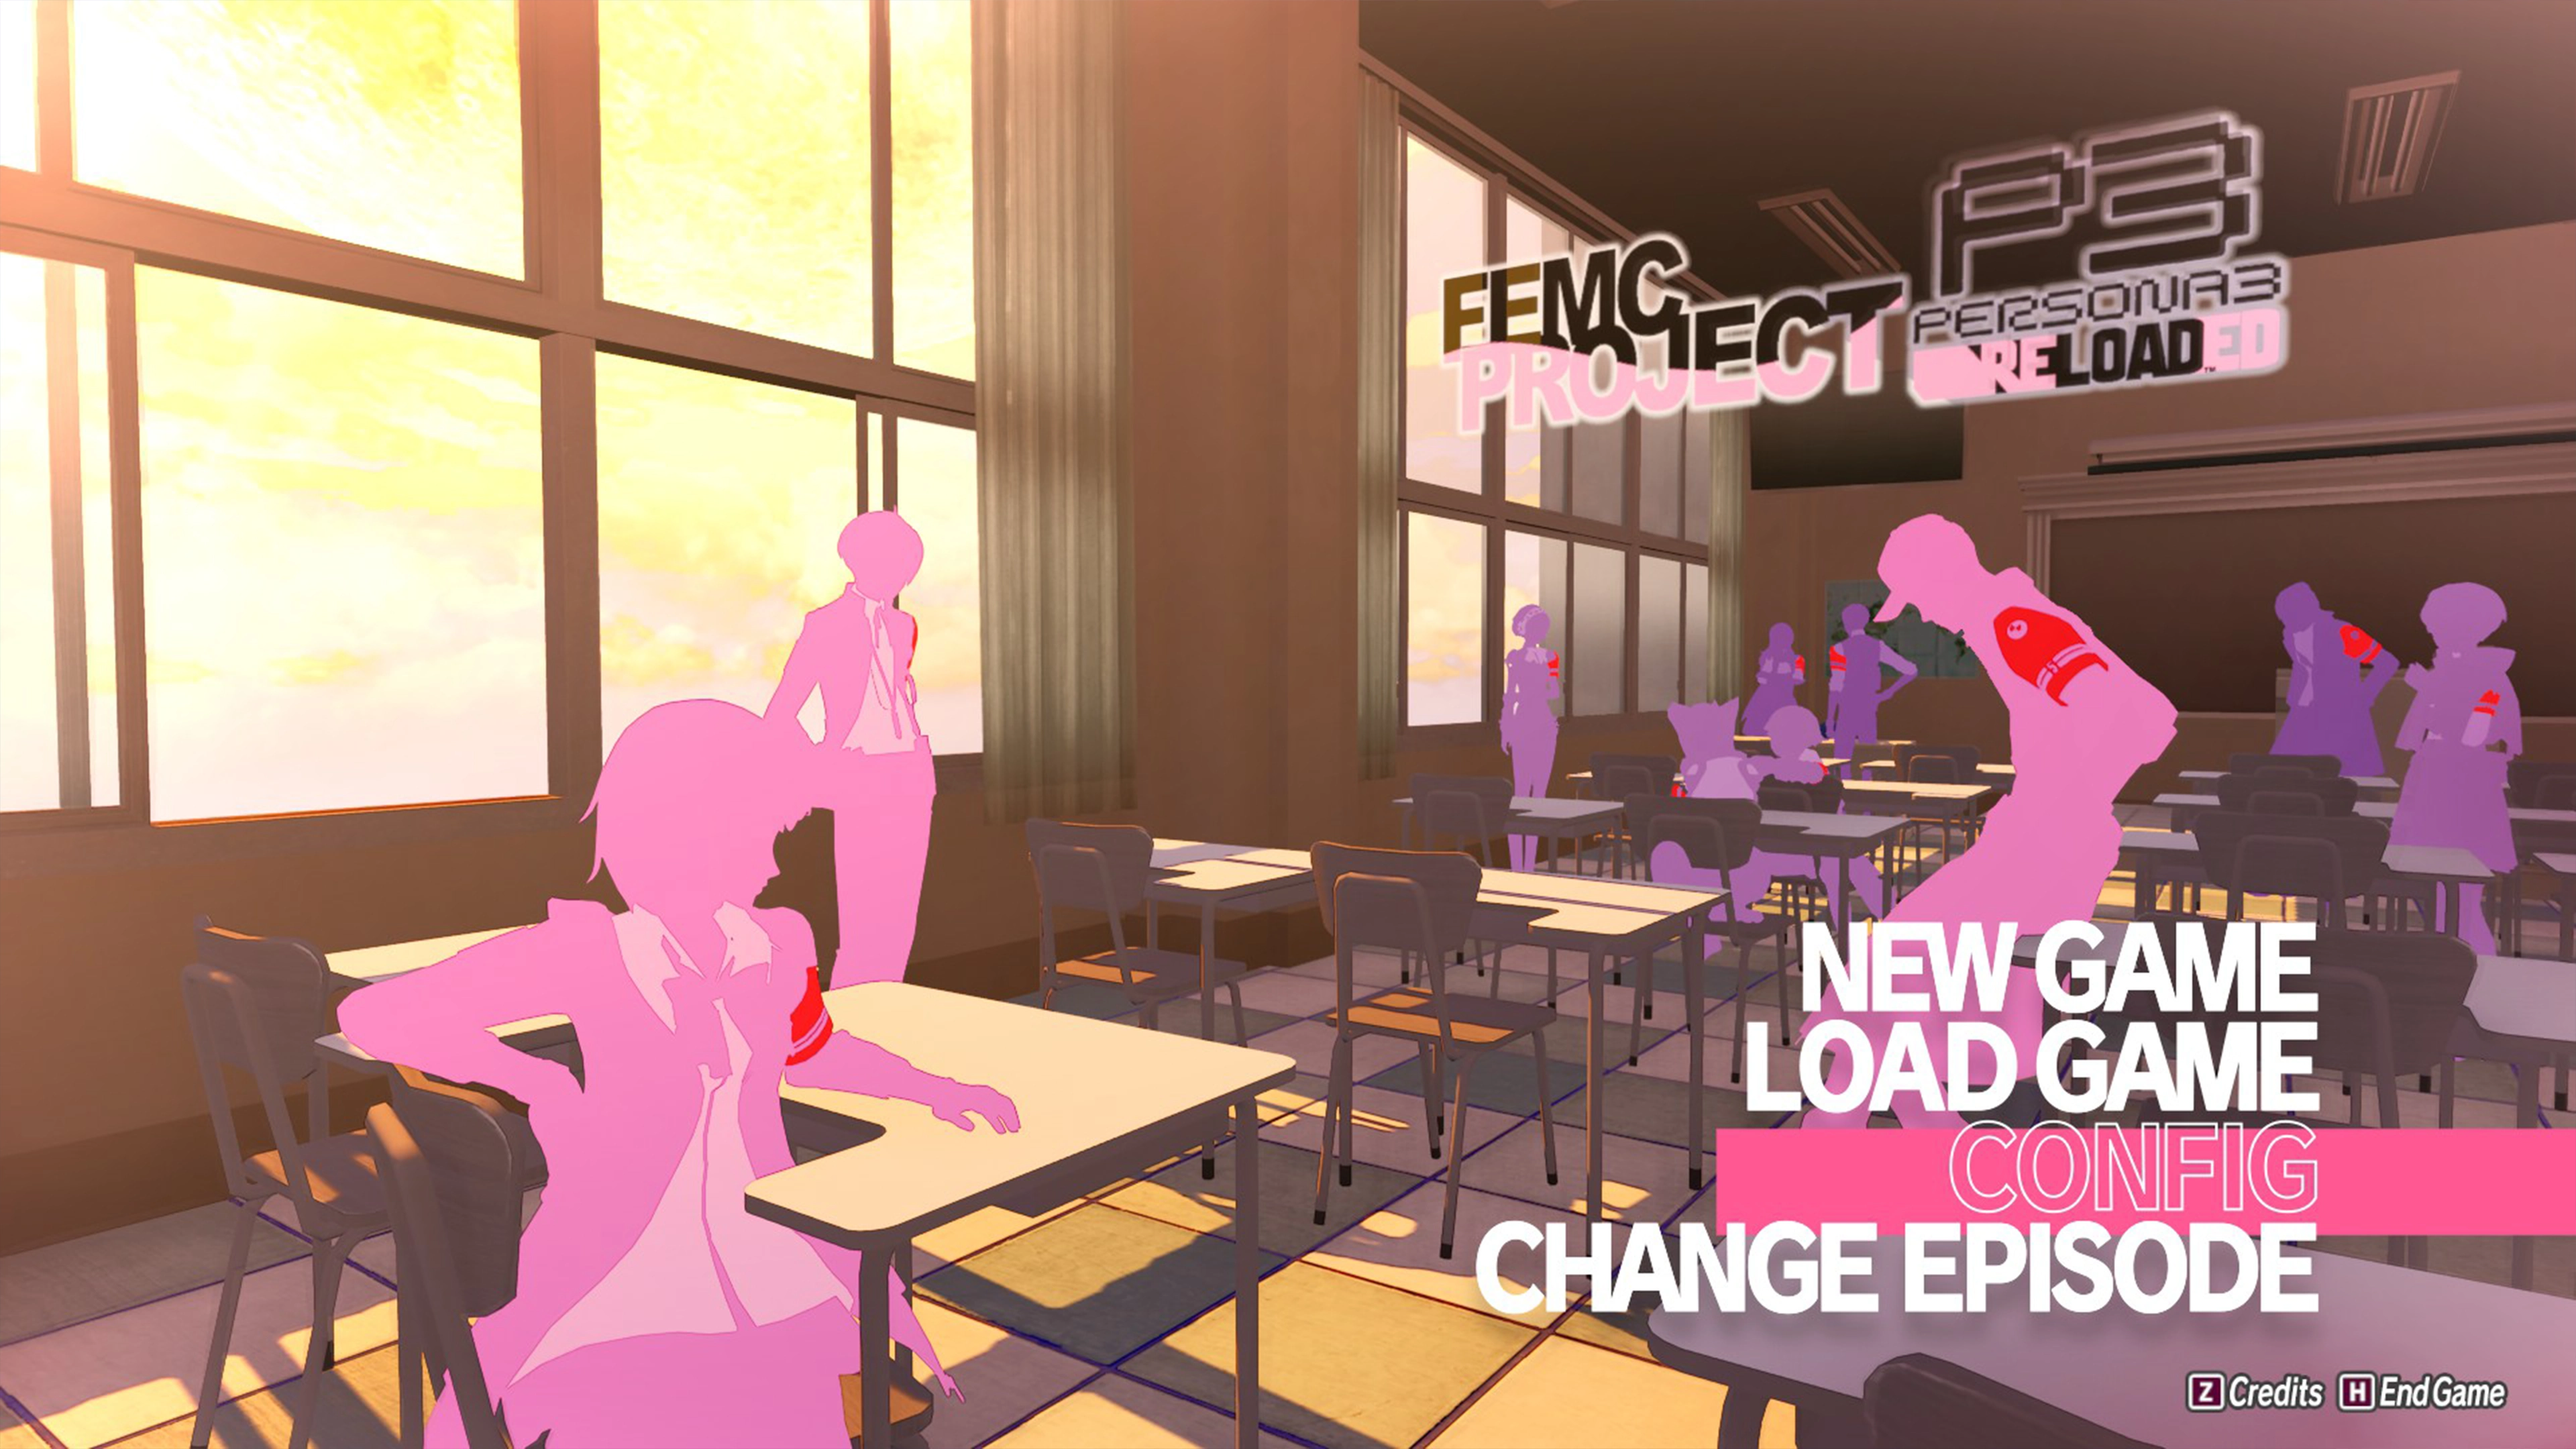
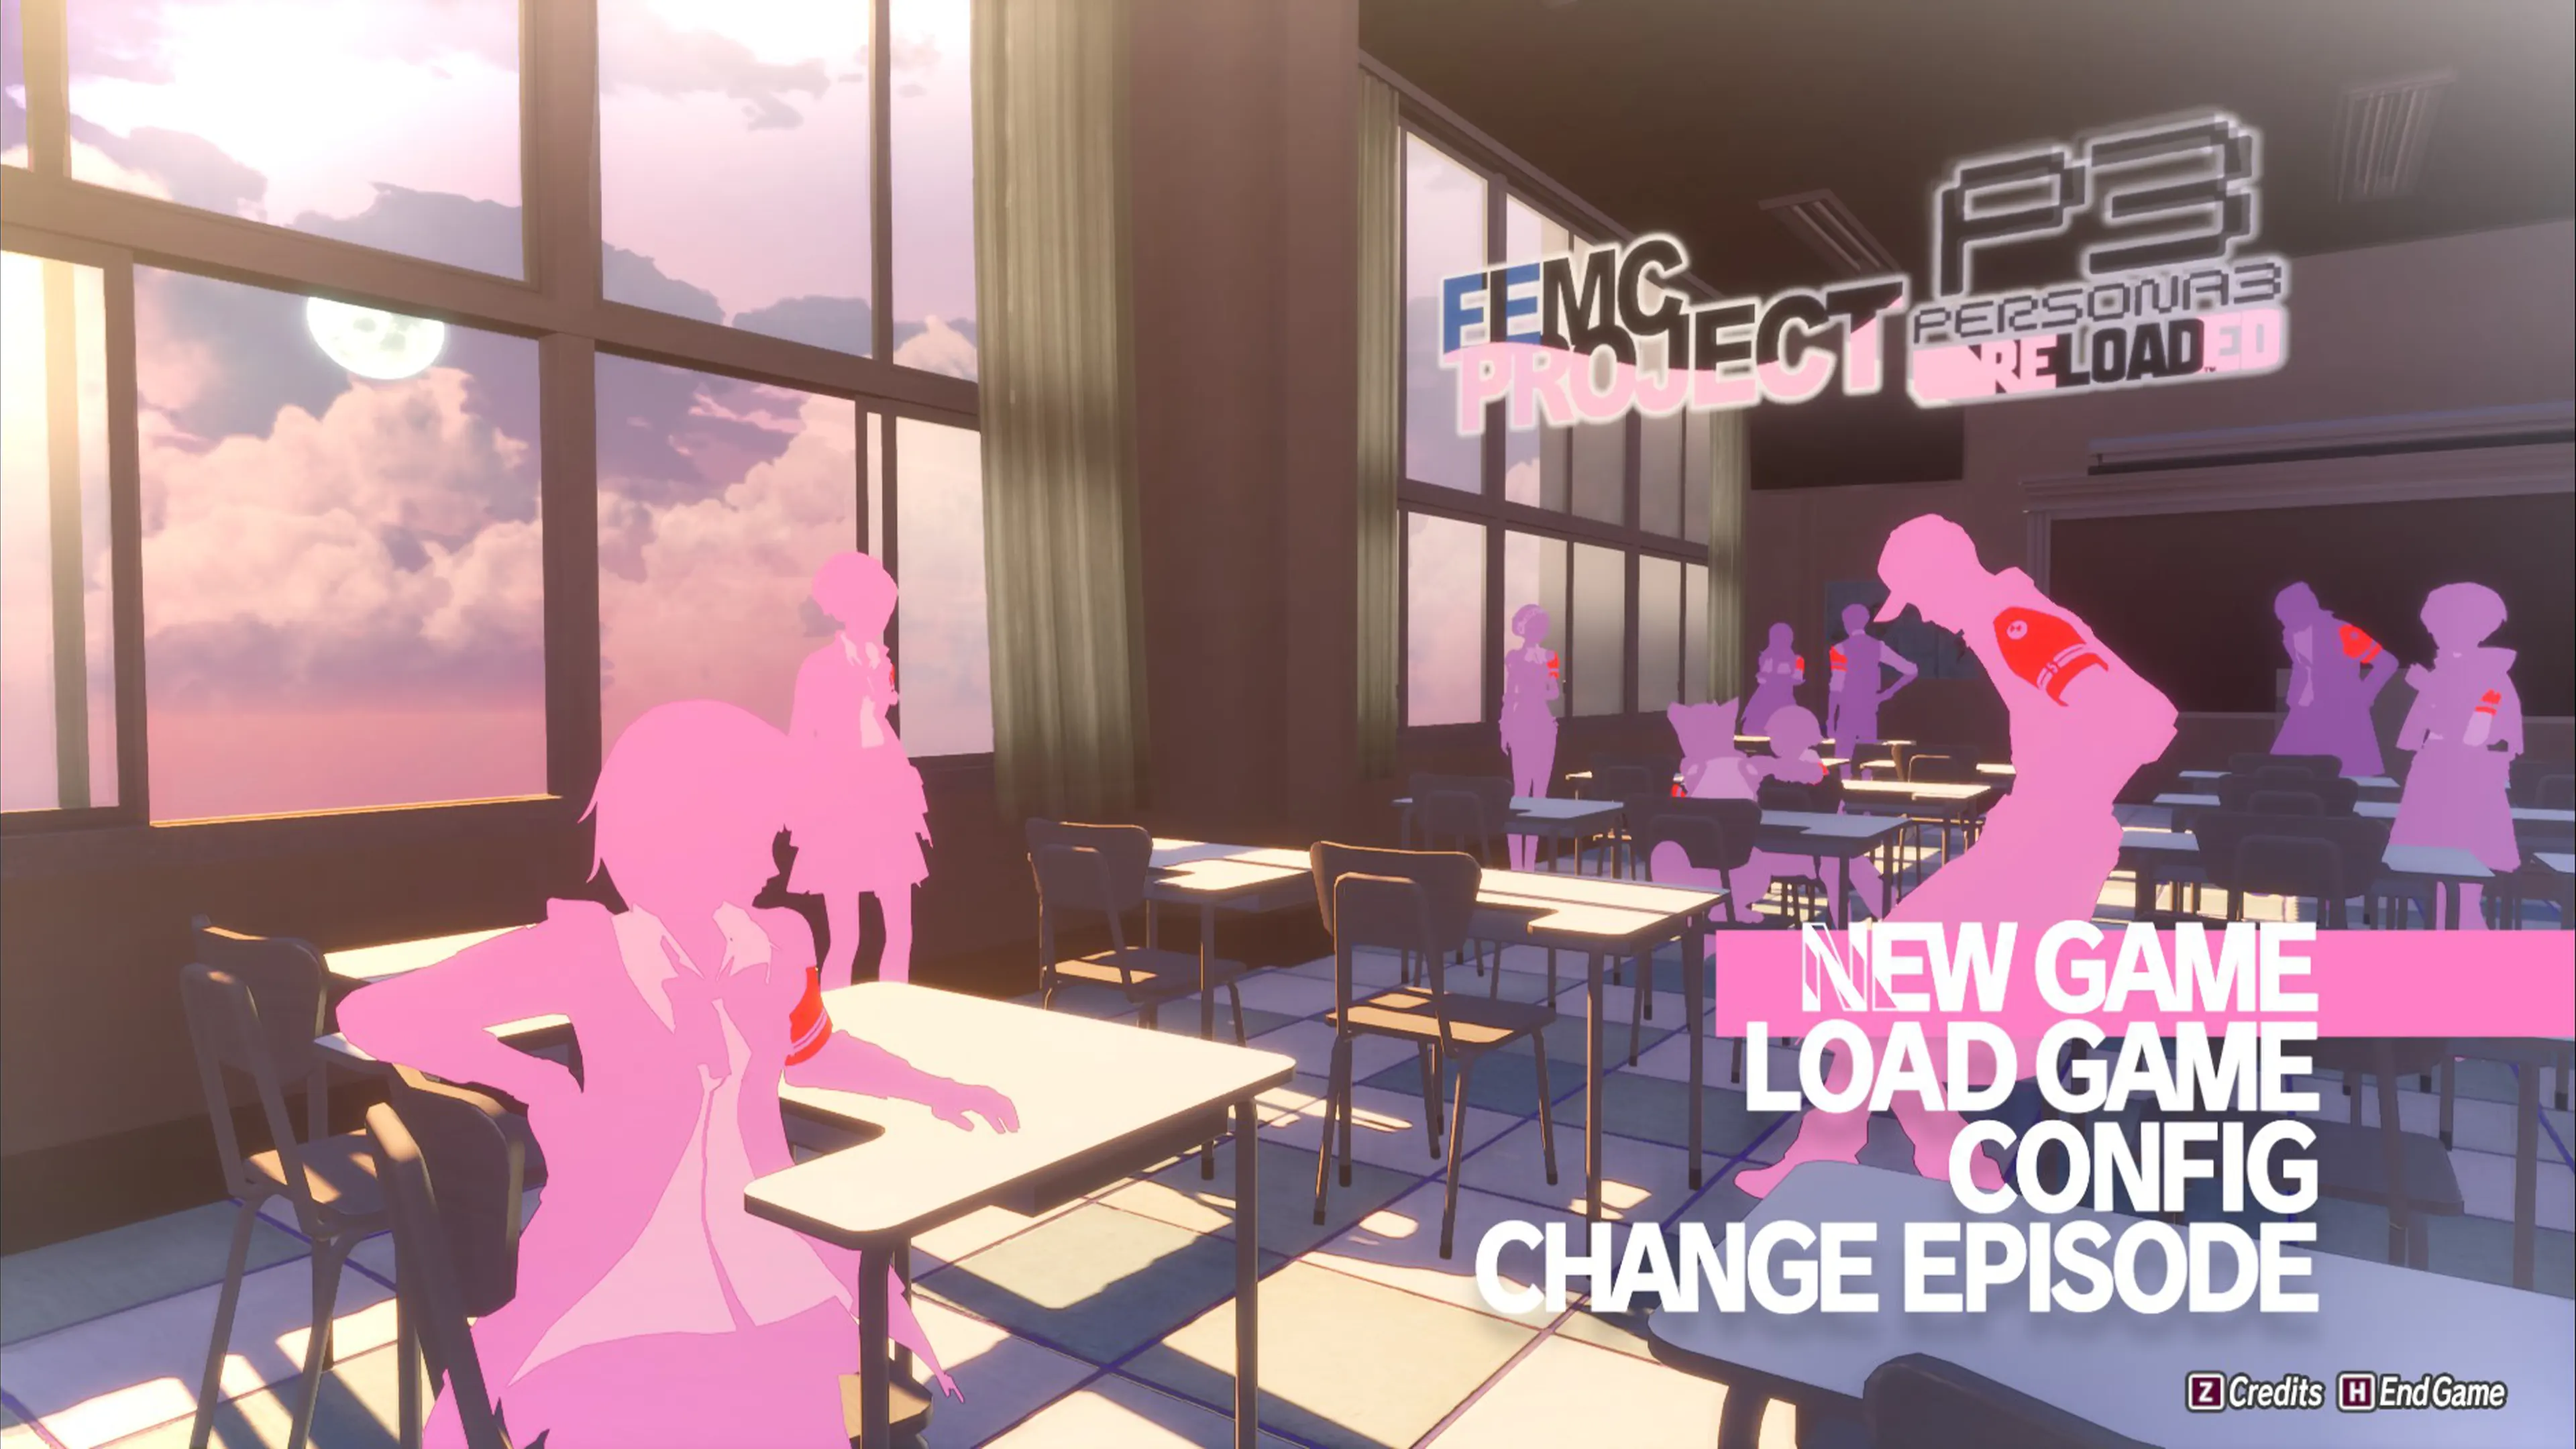
Fixup title screen options (aka none) and Apri voice config

diff --git a/FemcConfig.Library/Config/Models/FemcModConfig.cs b/FemcConfig.Library/Config/Models/FemcModConfig.cs
@@ -1209,6 +1209,7 @@ public partial class FemcModConfig : ObservableObject
     [ObservableProperty] private ConfigColor _CmmuRankUpSparkles4 = new ConfigColor(0xFF, 0x00, 0x55, 0xFF);
     [ObservableProperty] private ConfigColor _CmmuRankUpSparkleTrails = new ConfigColor(0xFF, 0x5A, 0x83, 0xFF);
     [ObservableProperty] private ConfigColor _CmmuRankUpMovingSparkles = new ConfigColor(0xFF, 0x66, 0x6E, 0xFF);
+    /*
     [ObservableProperty] private ConfigColor _TitleBgCloud1 = new ConfigColor(0xFF, 0xA9, 0x75, 0xFF);
     [ObservableProperty] private ConfigColor _TitleBgCloud2 = new ConfigColor(0xEC, 0x74, 0x4C, 0xFF);
     [ObservableProperty] private ConfigColor _TitleBgMoonAge = new ConfigColor(0xFF, 0xCF, 0x38, 0xFF);
@@ -1222,7 +1223,7 @@ public partial class FemcModConfig : ObservableObject
     [ObservableProperty] private ConfigColor _TitleMapSunColor = new ConfigColor(0xFF, 0xC1, 0x1F, 0xFF);
     [ObservableProperty] private ConfigColor _TitleMapHorizonColor = new ConfigColor(0xFF, 0x30, 0xA6, 0xFF);
     [ObservableProperty] private ConfigColor _TitleMapZenithColor = new ConfigColor(0xFF, 0x1F, 0x89, 0xFF);
-    [ObservableProperty] private ConfigColor _TitleMapCloudColor = new ConfigColor(0xFF, 0xA5, 0x75, 0xFF);
+    [ObservableProperty] private ConfigColor _TitleMapCloudColor = new ConfigColor(0xFF, 0xA5, 0x75, 0xFF); */
     [ObservableProperty] private ConfigColor _TitleFillColorA_1 = new ConfigColor(0xB9, 0x27, 0x6B, 0xFF);
     [ObservableProperty] private ConfigColor _TitleFillColorB_1 = new ConfigColor(0xFF, 0x4D, 0x85, 0xFF);
     [ObservableProperty] private ConfigColor _TitleFillColorA_2 = new ConfigColor(0x30, 0x13, 0x42, 0xFF);
@@ -1231,12 +1232,13 @@ public partial class FemcModConfig : ObservableObject
     [ObservableProperty] private ConfigColor _TitleFillColorB_3 = new ConfigColor(0x44, 0x1E, 0x58, 0xFF);
     [ObservableProperty] private ConfigColor _TitleFillColorB_4 = new ConfigColor(0x65, 0x2F, 0x72, 0xFF);
     [ObservableProperty] private ConfigColor _TitleFillColorB_5 = new ConfigColor(0x65, 0x2F, 0x72, 0xFF);
+    /*
     [ObservableProperty] private ConfigColor _TitleMapBgLevelColor1 = new ConfigColor(0xFF, 0xCC, 0x75, 0xFF);
     [ObservableProperty] private ConfigColor _TitleMapBgLevelColor2 = new ConfigColor(0xFF, 0xCF, 0x7E, 0xFF);
     [ObservableProperty] private ConfigColor _TitleBgCloudColor = new ConfigColor(0xFF, 0xCA, 0x3D, 0xFF);
     [ObservableProperty] private ConfigColor _TitleBgOverallColor = new ConfigColor(0xFF, 0x9B, 0xDA, 0xFF);
     [ObservableProperty] private ConfigColor _StupidMatTitleColor1 = new ConfigColor(0xFF, 0xC0, 0xC8, 0xFF);
-    [ObservableProperty] private ConfigColor _StupidMatTitleColor2 = new ConfigColor(0xFF, 0xB5, 0xA7, 0xFF);
+    [ObservableProperty] private ConfigColor _StupidMatTitleColor2 = new ConfigColor(0xFF, 0xB5, 0xA7, 0xFF); */
     [ObservableProperty] private ConfigColor _TownMapLogosColor = new ConfigColor(0xFF, 0xAD, 0xC0, 0xFF);
     [ObservableProperty] private ConfigColor _TownMapNamesColor = new ConfigColor(0xFF, 0xAD, 0xC0, 0xFF);
     [ObservableProperty] private ConfigColor _TownMapSLRankUpCard1 = new ConfigColor(0xFF, 0x5E, 0x82, 0xFF);
